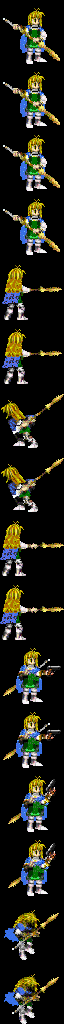
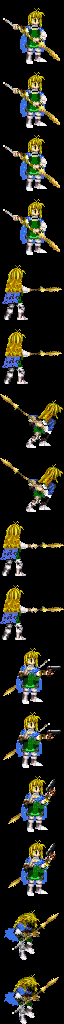
Sarah: dash pose as drawn again (the flipped dash ran backwards)
Claude-Session: https://claude.ai/code/session_01DQWC7xTsxVudAbpPbiVFX3

Changed region(s): [[0.0312, 0.375, 0.9688, 0.5]]

diff --git a/tools/dark_story/build_sarah_art.py b/tools/dark_story/build_sarah_art.py
@@ -32,7 +32,7 @@ SHARED_PALETTE = ROOT / "games/tbs/src/system/memory/basic.png"
 FRAME = 64
 FRAMES = 16
 # Frame -> supplied pose; the other frame of each pair is a copy.
-MIRROR = {"dash"}  # drawn facing left; she runs right, at the party
+MIRROR = set()  # the poses are used as drawn (a flipped dash ran backwards)
 STEPS = {0: "idle1", 2: "idle2", 4: "attack_end", 6: "dash", 8: "attack",
          10: "cast", 12: "cast2", 14: "damage"}
 
